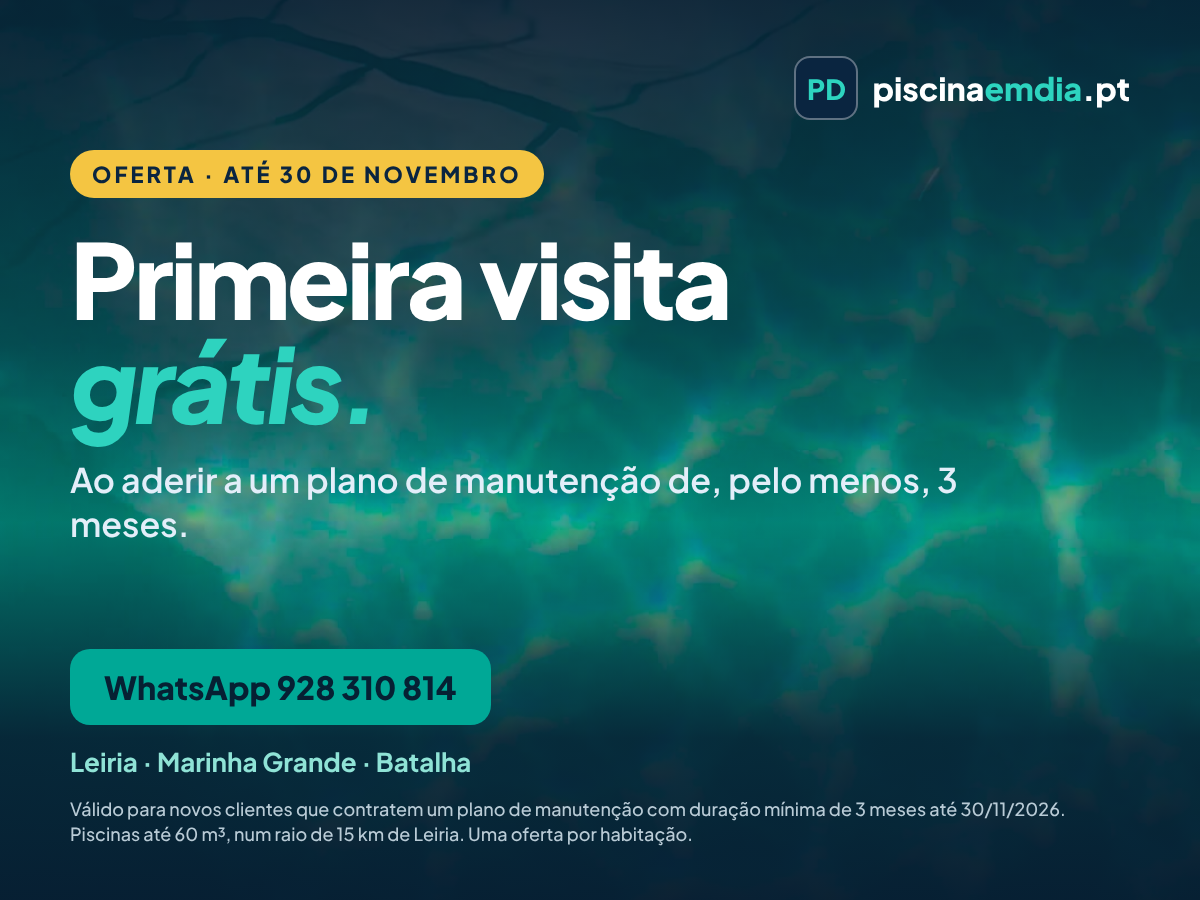
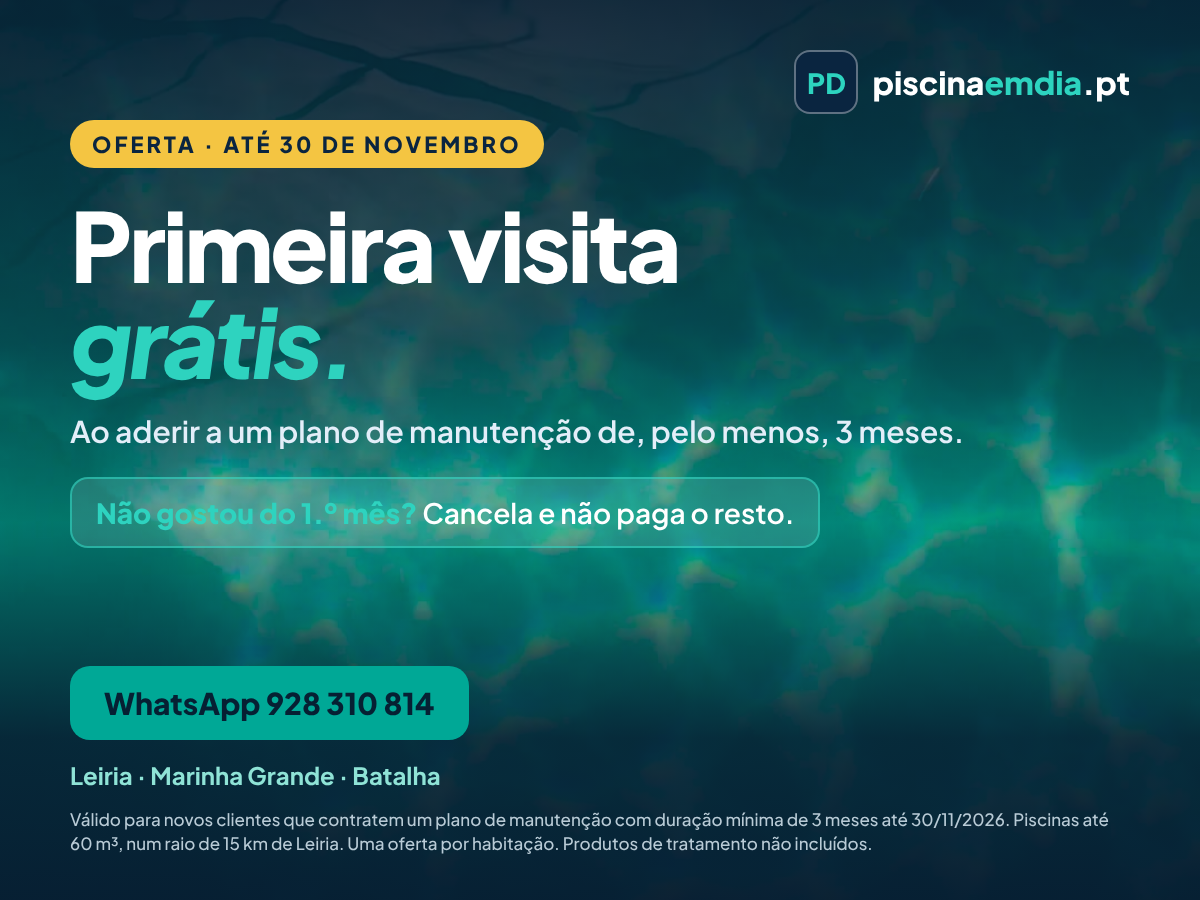
Offer images: add first-month guarantee and products note
Claude-Session: https://claude.ai/code/session_015APGbDmTNWJmiYTMG5yM5V

diff --git a/piscina-em-dia/.agents/product-marketing.md b/piscina-em-dia/.agents/product-marketing.md
@@ -39,7 +39,7 @@ Site wording: "Valores indicativos. O preço final fica fechado depois de vermos
 | Summer preparation (preparação da piscina para o verão) | Included only for customers on the year-round plan (ano todo); otherwise quoted separately. Steps confirmed by the owner (2026-10-30): cover, deep clean, waterline, skimmers and pre-filter, backwash, water level, chemical balance, pump on summer hours. | owner — page /preparacao-piscina-verao (PR #13 open, 2026-10-30) |
 
 ### Current offer (owner, 2026-11-02)
-- **Primeira visita grátis** for new customers who sign a maintenance plan of at least 3 months by 30/11/2026. Pools up to 60 m³, within 15 km of Leiria, one offer per household. Images in drafts/media/2026-11-02-oferta-primeira-visita/ (post 4:5, story 9:16, Google Maps 4:3). Always show the conditions with the offer; remove the offer from all channels after 30/11/2026.
+- **Primeira visita grátis** for new customers who sign a maintenance plan of at least 3 months by 30/11/2026. Pools up to 60 m³, within 15 km of Leiria, one offer per household. Guarantee: if the customer doesn't like the 1st month, they can cancel and don't pay the rest (owner accepts the risk). Treatment products are NOT included in the visit price (owner, 2026-11-02); owner's reference price 25 € per visit. Images in drafts/media/2026-11-02-oferta-primeira-visita/ (post 4:5, story 9:16, Google Maps 4:3). Always show the conditions with the offer; remove the offer from all channels after 30/11/2026.
 
 ### What every visit includes (site, "Em cada visita")
 1. Limpeza da superfície — folhas, insetos, sujidade e linha de água.
